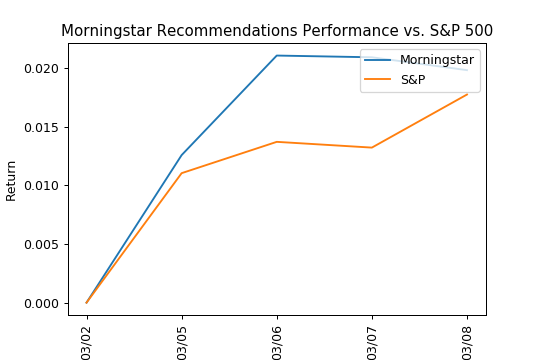
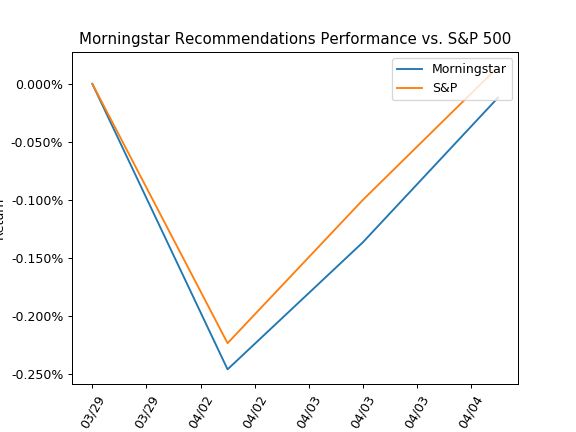
final version update

diff --git a/morningstar_stimulator.py b/morningstar_stimulator.py
@@ -1,0 +1,267 @@
+import os
+import re
+import time
+
+from tika import parser
+from os import listdir
+from os.path import isfile, join
+from collections import defaultdict
+from datetime import date, datetime
+from pandas_datareader import data
+from datetime import timedelta
+from pandas import DataFrame
+from tkinter import *
+from tkinter import ttk
+
+import matplotlib.pyplot as plt
+import pandas as pd
+import matplotlib
+import tkinter.scrolledtext as tkst
+import numpy as np
+import tkinter as tk
+import PIL.Image
+import PIL.ImageTk
+
+
+path = "process-pdf/"
+SNP = {'^GSPC': 0}
+shares = {0:1200, 3: 200, 4: 400, 5: 800}
+
+def retriveFiles(path):
+    return [join(path, f) for f in listdir(path) if isfile(join(path, f)) and '.DS' not in f]
+
+files = retriveFiles(path)
+
+def generateDates(files):
+    root = len(path)
+    res = []
+    for file in files:    
+        dstr = file[root:root+8]
+        d = date(int(dstr[0:4]),int(dstr[4:6]),int(dstr[6:8]))
+        res.append(d)
+    
+    res.sort()
+    return res
+
+def retrieveRatings(files, day):
+    for file in files:
+        if day in file:
+            break
+    raw = parser.from_file(file)
+    pattern = '\(.+\) Q+'
+    data_pairs = re.findall(pattern, raw['content'])
+    res = defaultdict(int)
+    for data in data_pairs:
+        pair = data.split(' ');
+        if len(pair[1]) > 2:
+            res[pair[0][1:-1]] = len(pair[1])
+        else:
+            res[' '.join([pair[0][1:-1], pair[1][0:-1]])] = len(pair[2])
+    
+    return res
+
+#get open and close prices from yahoo api
+#return dic {ticker: [rating, [price1, price2, ...]], ...}
+def getTickerPrices(report_date, end_date, ticker_rating_pair):
+    res = defaultdict(list)
+    for ticker, rating in ticker_rating_pair.items():
+        try:    
+            price_info = data.DataReader(ticker, 'yahoo', report_date, end_date)
+            prices = []
+            for i in range (price_info.shape[0]):
+                prices.append(price_info.iloc[i]['Close'])
+            res[ticker] = [rating, prices]
+        except:
+            print(ticker, " is not public traded in North America stock market, ignored...", sep = "")
+    return res
+
+def calculateBalance(ticker_prices, shares):
+    balance  = [0] * len(next(iter(ticker_prices.values()))[1])
+    
+    for ticker, ops in ticker_prices.items():
+        rating = ops[0]
+        prices = ops[1]
+        for i in range(len(balance)):
+            balance[i] = balance[i] + prices[i]*shares[rating]
+    return balance
+
+def calculateProfits(balance, shares):
+    profits_percentage = [0] * len(balance)
+    for i in range(len(balance)):
+        profits_percentage[i] = (balance[i] - balance[0]) / balance[0] * 10
+    return profits_percentage
+
+def getFormatedTickerPrice(ticker_prices, shares):
+    s = "Ticker  Quantity   Buy($)  Sell($)\n"
+    for ticker, ops in ticker_prices.items():
+        ticker = "{:<7}".format(ticker)
+        rating = ops[0]
+        rating = "{:<10}".format(str(shares[rating]))
+        s = s + ticker + ' ' + rating
+        prices = ops[1]
+        open_price = "{:<8}".format( str(round(prices[0],2)) )
+        close_price = "{:<7}".format( str(round(prices[-1],2)) )
+        s = s + ' '+  open_price +' '+ close_price
+        s = s+'\n'
+    return s
+
+# purchaseDate = 'YYYYMMDD'
+# threeStarVolume, fourStarVolume, fiveStarVolume
+# trailingTime
+
+root = Tk()
+root.geometry('1000x700')
+root.title("Morningstar Strategy Simulator")
+root.resizable(False, False)
+
+lf_dataRange = LabelFrame(root, text = "Data Range")
+lf_dataRange.grid(row = 0, column = 0, columnspan = 2, padx = 5, pady = 5)
+
+# awaiting filename data
+# generateDates(files)
+dataRange = generateDates(files)
+dataRangeSelect = ttk.Combobox(lf_dataRange, state="readonly", values = dataRange)
+dataRangeSelect.pack()
+dataRangeSelect.current(1)
+
+day = ''
+
+def callbackFunc(event):
+    print("New Element Selected", dataRangeSelect.get())
+    day = ''.join(str(dataRangeSelect.get()).split('-'))
+    if (day == ''):
+        day = '20180223'
+    report_date = date(int(day[0:4]),int(day[4:6]),int(day[6:8]))
+    ticker_rating_pair = retrieveRatings(files, day)
+    
+dataRangeSelect.bind("<<ComboboxSelected>>", callbackFunc)
+
+# lf_purchaseDate = LabelFrame(root, text = "Purchase Date (YYYYMMDD)")
+# lf_purchaseDate.grid(row = 1, column = 0, columnspan = 2, padx = 5, pady = 5)
+# entry_purchaseDate = Entry(lf_purchaseDate, bd = 2)
+# entry_purchaseDate.pack()
+# day = str(entry_purchaseDate.get())
+# if (day == ''):
+#     day = '20180808'
+# report_date = date(int(day[0:4]),int(day[4:6]),int(day[6:8]))
+
+lf_threeStarVolume = LabelFrame(root, text = "3-star Quantity")
+lf_threeStarVolume.grid(row = 0, column = 2, columnspan = 2, padx = 5, pady = 5)
+entry_threeStarVolume = Entry(lf_threeStarVolume, bd = 2)
+entry_threeStarVolume.pack()
+
+lf_fourStarVolume = LabelFrame(root, text = "4-star Quantity")
+lf_fourStarVolume.grid(row = 1, column = 2, columnspan = 2, padx = 5, pady = 5)
+entry_fourStarVolume = Entry(lf_fourStarVolume, bd = 2)
+entry_fourStarVolume.pack()
+    
+lf_fiveStarVolume = LabelFrame(root, text = "5-star Quantity")
+lf_fiveStarVolume.grid(row = 2, column = 2, columnspan = 2, padx = 5, pady = 5)
+entry_fiveStarVolume = Entry(lf_fiveStarVolume, bd = 2)
+entry_fiveStarVolume.pack()
+
+lf_TrailingTime = LabelFrame(root, text = "Trailing Return Days")
+lf_TrailingTime.grid(row = 0, rowspan = 2, column = 4, columnspan = 2, padx = 5, pady = 5, sticky = "N" + "S")
+MODES = [
+    ("5 Days", 5),
+    ("30 Days", 30),
+    ("91 Days", 91),
+    ("180 Days", 180),
+]
+
+v = StringVar()
+v.set(5)
+
+for text, mode in MODES:
+    b = Radiobutton(lf_TrailingTime, text = text, variable = v, value = mode)
+    b.pack(anchor = W)
+
+tickerInfo = tkst.ScrolledText(
+    master = root,
+    wrap   = WORD,
+    width  = 20,
+    height = 10
+)
+
+tickerInfo.grid(row = 3, rowspan = 7, column = 0, columnspan = 3, sticky = "N" + "S" + "E" + "W")
+
+# replace text with a func callback
+tickerInfo.insert(INSERT, '')
+    
+def getDealDays(report_date, end_date, ticker):
+    panel_data = data.DataReader(ticker, 'yahoo', report_date, end_date)
+    return [pd.to_datetime(d).strftime("%m/%d") for d in list(panel_data.index.values)]
+
+def submitCallback():
+    
+    day = ''.join(str(dataRangeSelect.get()).split('-'))
+    if (day == ''):
+        day = '20180223'
+    report_date = date(int(day[0:4]),int(day[4:6]),int(day[6:8]))
+
+    threeStarVolume = int(entry_threeStarVolume.get())
+    fourStarVolume = int(entry_fourStarVolume.get())
+    fiveStarVolume = int(entry_fiveStarVolume.get())
+    shares = {0:1200, 3: threeStarVolume, 4: fourStarVolume, 5: fiveStarVolume}
+    trailingTime = int(v.get())
+    end_date = report_date + timedelta(days=trailingTime)
+
+    ticker_prices = getTickerPrices(report_date, end_date, retrieveRatings(files, day))
+    snp_prices = getTickerPrices(report_date, end_date, SNP)
+
+    balance = calculateBalance(ticker_prices, shares)
+    profits = calculateProfits(balance, shares)
+    snpBalance = calculateBalance(snp_prices, shares)
+    profits_snp = calculateProfits(snpBalance, shares)
+    
+    balanceLabel = Label(root, text = "Cost: $" + str(round(balance[0], 2)) + "\n EOP Balance: $" + str(round(balance[len(balance) - 1], 2)))
+    balanceLabel.grid(row = 2, column = 6, columnspan = 2, padx = 5, pady = 5, sticky = "N" + "S" + "E" + "W")
+
+    deal_days =  getDealDays(report_date, end_date, '^GSPC')
+    
+    tickerInfo.delete(1.0, END)
+    tickerInfo.insert(INSERT, getFormatedTickerPrice(ticker_prices, shares))
+    tickerInfo.config(state = DISABLED)
+    
+    l1, = plt.plot(deal_days,profits, label='Morningstar')
+    l2, = plt.plot(deal_days,profits_snp, label='S&P')
+    plt.legend(loc='upper right')
+    plt.title('Morningstar Recommendations Performance vs. S&P 500')
+    plt.xlabel('Date')
+    plt.ylabel('Return')
+    plt.xticks(rotation=60)
+    plt.gca().axes.get_xaxis().set_major_locator(plt.MaxNLocator(10))
+    plt.gca().axes.get_yaxis().set_major_formatter(matplotlib.ticker.PercentFormatter())
+    plt.savefig('myfig.png', dpi = 90, pad_inches = 0)
+    plt.close()
+    
+    img = PIL.Image.open("myfig.png")
+    photo = PIL.ImageTk.PhotoImage(img)
+    
+    labelPhoto = Label(image = photo)
+    labelPhoto.image = photo
+    labelPhoto.grid(row = 3, rowspan = 4, column = 4, columnspan = 4, padx = 5, pady = 5, sticky = "N" + "S" + "E" + "W")
+    
+#     canvas = Canvas(root, width=250, height=250)
+#     canvas.grid(row = 3, rowspan = 4, column = 4, columnspan = 4, padx = 5, pady = 5, sticky = "N" + "S" + "E" + "W")
+#     canvas.create_image(0, 0, anchor="nw", image=photo)
+    
+    print("Submitted")
+    
+    
+btn_Submit = Button(root, text = "Submit", command = submitCallback)
+btn_Submit.grid(row = 1, column = 6, columnspan = 2, padx = 5, pady = 5, sticky = "N" + "S" + "E" + "W")
+
+for col in range(10):
+    root.grid_columnconfigure(col, minsize = 100, pad = 2)
+
+for row in range(10):
+    root.grid_rowconfigure(row, minsize = 60, pad = 2)
+
+
+while True:
+    try:
+        root.mainloop()
+        break
+    except UnicodeDecodeError:
+        pass
